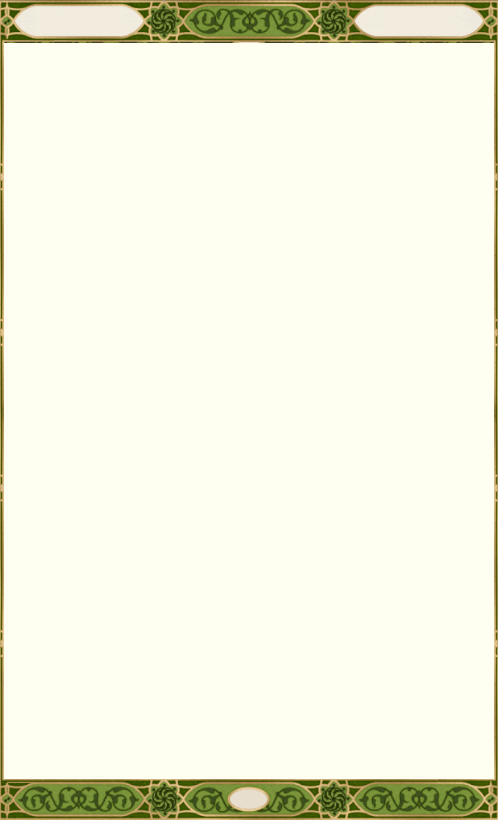
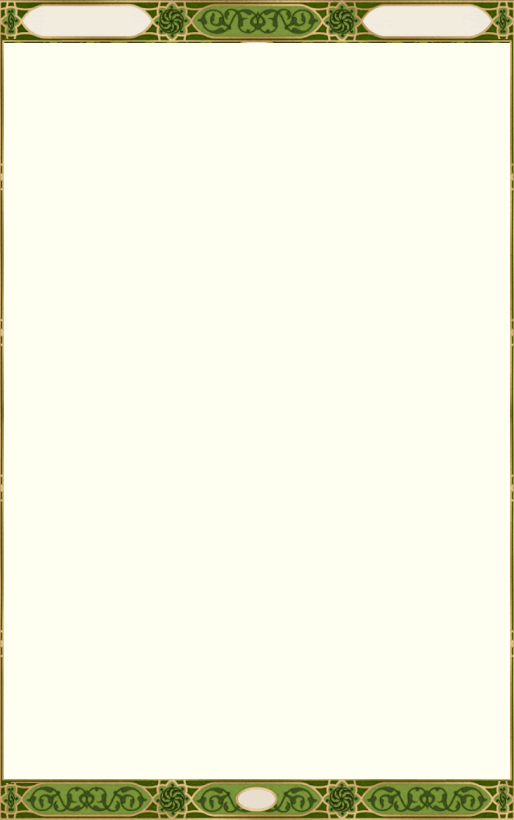
Wider background image

diff --git a/index.html b/index.html
@@ -1,5 +1,5 @@
 <!DOCTYPE html>
-<html manifest="index.appcache?v=1511060836">
+<html manifest="index.appcache?v=1511062116">
 <head>
     <meta charset="utf-8">
     <meta http-equiv="X-UA-Compatible" content="IE=edge"> 
@@ -9,7 +9,7 @@
     <link rel="stylesheet" type="text/css" href="css/jquery.mobile-1.4.5.min.css" />
     <link rel="stylesheet" type="text/css" href="css/swiper.css">
     <link rel="stylesheet" type="text/css" href="css/tooltipster.css" />
-    <link rel="stylesheet" type="text/css" href="css/common.css?v=1511060836" />
+    <link rel="stylesheet" type="text/css" href="css/common.css?v=1511062116" />
     <script type="text/javascript">
         var isOperaMini = !!window['operamini'];
         if (isOperaMini) document.location.href="opera.html";        
@@ -379,7 +379,7 @@
     <!-- Load swiper after the page markup is done -->
     <script src="js/swiper.js"></script>
 
-    <script src="js/index.js?v=1511060836"></script>
+    <script src="js/index.js?v=1511062116"></script>
 
     <script defer="defer" type="text/javascript" src="page/surahs.js"></script>
     <script defer="defer" type="text/javascript" src="js/sugar.js"></script>

diff --git a/css/common.css b/css/common.css
@@ -114,7 +114,7 @@
     display: none;
 }
 .page {
-    width: 498px;
+    width: 514px;
     height: 820px;
     background: url('../images/Background.png') no-repeat 0px 0px;
     float: left;
@@ -398,13 +398,13 @@ html {
 #home>.ui-content { padding: 0; }
 
  .swiper-container {
-            height: 822px;
-            width: 498px;
+            height: 820px;
+            width: 514px;
         }
 
         .swiper-slide {
-            width: 498px;
-            height: 822px;
+            width: 514px;
+            height: 820px;
             /* Center slide text vertically */
             display: -webkit-box;
             display: -ms-flexbox;

diff --git a/js/index.js b/js/index.js
@@ -7,7 +7,7 @@
 
 var QuranApp = (function($) {
 	var $this = this;
-	var version = 1511060836;
+	var version = 1511062116;
 	var versionSuffix = "?v=" + version;
 		
 	/**************************************
